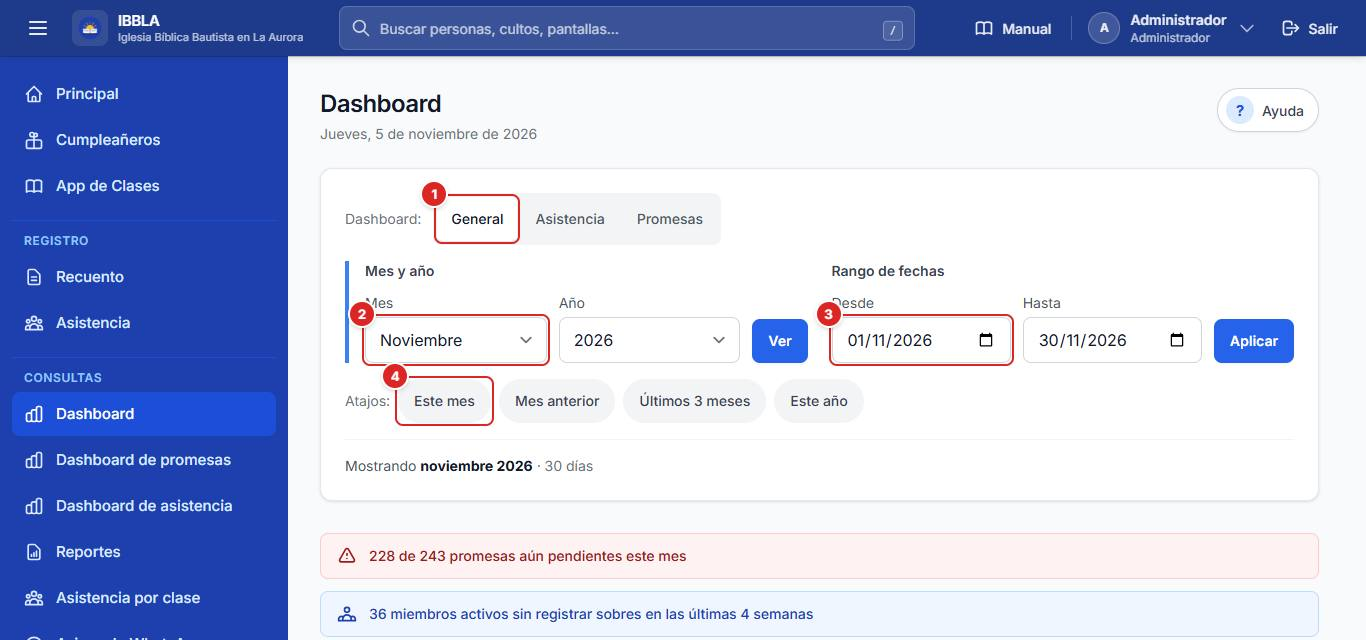
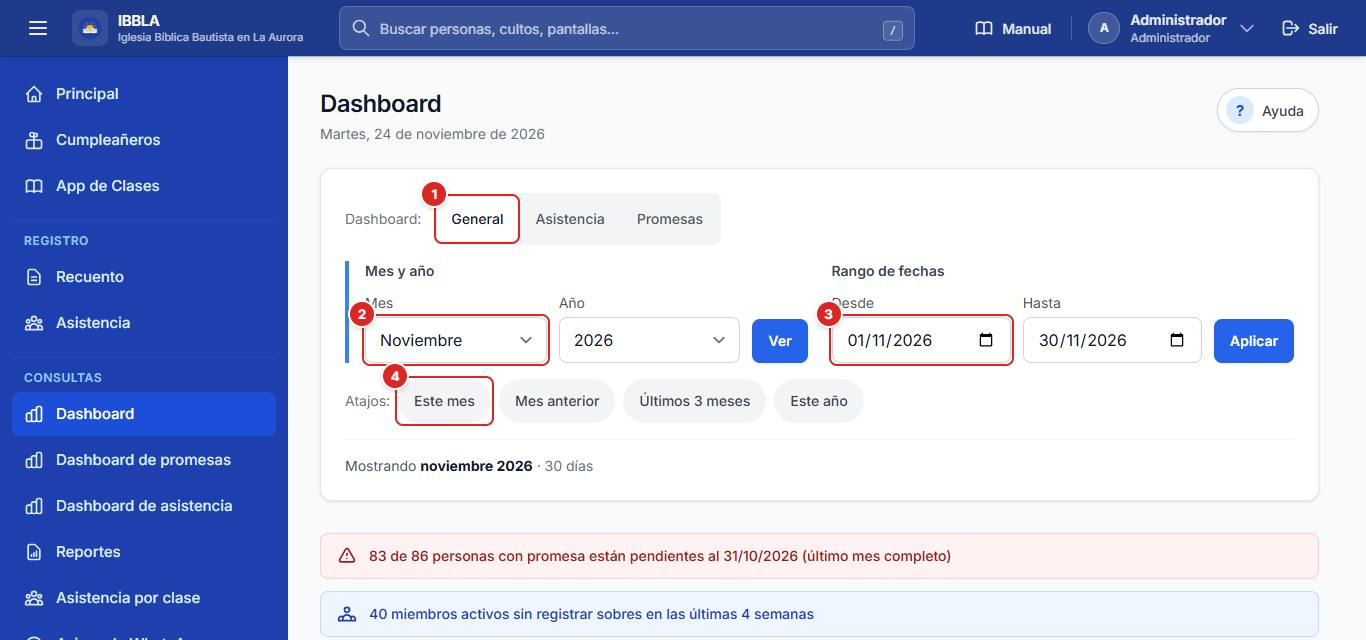
QA-G12: manual de Promesas y Dashboards con meses completos y el mes en curso aparte

Changed region(s): [[0.2767, 0.8438, 0.7072, 0.875], [0.2767, 0.9375, 0.6149, 0.9688], [0.2152, 0.1875, 0.3997, 0.2188]]

diff --git a/resources/views/manual/paginas/05-promesas.md b/resources/views/manual/paginas/05-promesas.md
@@ -20,7 +20,7 @@ Una **promesa** es lo que una persona se compromete a dar de forma periódica pa
 
 ## Cómo se configura una promesa
 
-Se configura dentro del formulario de la persona, en la sección **Promesas de ofrenda** (menú **Gestionar Personas** → **Editar**). Hay una fila por categoría, sin el diezmo, que no lleva promesa.
+Se configura dentro del formulario de la persona, en la sección **Promesas de ofrenda**. Al **Guardar** la ficha solo cambia lo que tocaste: las promesas que no cambiaste conservan su historial (antes se borraban y se volvían a crear). Si dejas el monto vacío o en cero, esa promesa se quita (menú **Gestionar Personas** → **Editar**). Hay una fila por categoría, sin el diezmo, que no lleva promesa.
 
 ![Sección de promesas del formulario de una persona](img:promesas-formulario.jpg "Monto (1), moneda (2) y frecuencia (3) por categoría")
 
@@ -50,7 +50,7 @@ En **Gestionar Personas** → el icono de **Compromisos** de la persona. Ver la 
 
 ### Dashboard de promesas
 
-Menú **Consultas** → **Dashboard de promesas** (Administrador y Tesorero). Resume un período: **Prometido**, **Dado**, **Saldo** y **Cumplimiento** en porcentaje, la gráfica de lo prometido contra lo dado por mes y los **Top 10 contribuyentes**. El período se elige con **Mes y año** o con un **Rango de fechas** (ver *Dashboards*).
+Menú **Consultas** → **Dashboard de promesas** (Administrador y Tesorero). Resume un período con las mismas reglas que Cumplimiento: **Prometido (meses completos)**, **Dado (hasta hoy)**, **Saldo** y **Cumplimiento** en porcentaje, y una tarjeta aparte con el **mes en curso** («<Mes> (en curso, todavía no se cobra)»). Una nota azul explica la regla y enlaza a *Cumplimiento de promesas*. Abajo, la gráfica de lo prometido contra lo dado por mes y los **Top 10 contribuyentes**. El período se elige con **Mes y año** o con un **Rango de fechas** (ver *Dashboards*).
 
 ### Reporte de promesas
 
@@ -60,12 +60,15 @@ Menú **Consultas** → **Reportes** → **Promesas** (Administrador y Tesorero)
 
 | Botón o control | Qué hace | Quién puede usarlo | Qué pasa después |
 |---|---|---|---|
-| **1. Año, Mes y Categoría** + **Buscar** | Elige el período (o todos los meses) y, si quieres, una sola categoría. | Administrador, Tesorero | La tabla muestra, por categoría, lo **Total Prometido**, lo **Total Dado** y el **Faltante**. |
+| **1. Año, Mes y Categoría** + **Buscar** | Elige el período (o todos los meses) y, si quieres, una sola categoría. | Administrador, Tesorero | Las tarjetas muestran **Prometido (meses completos)**, **Total Dado**, **Total Faltante** y **Total excedente**; la tabla, por categoría, lo prometido, lo dado, el **Faltante** y el **Excedente**. Una nota azul explica que el **mes en curso** no se cobra todavía y se muestra aparte (columna **En curso (no se cobra)** en los PDF). |
 | **2. Promesas por Clase** | Muestra el cumplimiento agrupado por clase. | Administrador, Tesorero | Ves cada clase con sus totales. |
 | **Reporte Anual (12 meses)** | Genera un PDF con los doce meses del año. | Administrador, Tesorero | Se abre el PDF en otra pestaña. |
 | **PDF Mensual** | Genera el PDF del mes elegido. | Administrador, Tesorero | Se abre el PDF en otra pestaña. |
+| **Excel** | Baja el cumplimiento del periodo. | Administrador, Tesorero | Es el mismo Excel de *Cumplimiento de promesas* (con corte al último día del año o mes elegido, sin pasar de hoy), así que dice lo mismo que el estado de cuenta. |
 
 ## Preguntas frecuentes
+
+**Abrí una dirección vieja de /promesas.** Esa pantalla ya no existe: te lleva a **Personas**, donde se configuran las promesas (en la ficha de cada persona).
 
 **Una persona dio más de lo prometido.** Se muestra como **excedente** (verde) en sus compromisos. No se arrastra al mes siguiente.
 

diff --git a/resources/views/manual/paginas/08-dashboards.md b/resources/views/manual/paginas/08-dashboards.md
@@ -39,7 +39,8 @@ Debajo del selector dice siempre qué período estás viendo, por ejemplo *«Mos
 
 ## Dashboard general
 
-- **Alertas:** mensajes en color con lo que merece atención, por ejemplo cuántas promesas siguen pendientes o cuántos miembros activos no han registrado sobres en las últimas semanas.
+- **Alertas:** mensajes en color con lo que merece atención, por ejemplo cuántas promesas siguen pendientes o cuántos miembros activos no han registrado sobres en las últimas semanas. Las promesas **al día y pendientes** se cuentan igual que en *Cumplimiento de promesas*: al cierre del **último mes completo** y por persona con promesa (el mes en curso no se cobra todavía).
+- **Mes en curso:** si el período todavía no termina, el dashboard compara contra los **mismos días del mes anterior** (no contra el mes entero) y lo rotula «mes en curso (N días)», para que el día 5 no diga que los ingresos «bajaron» frente a un mes completo.
 - **Ingresos del período, Asistencia promedio y Promesas cumplidas:** tres tarjetas con la comparación.
 - **Estadísticas del Período:** totales por categoría.
 - **Análisis visual:** ingresos por culto, distribución por categorías y tendencia mensual.
